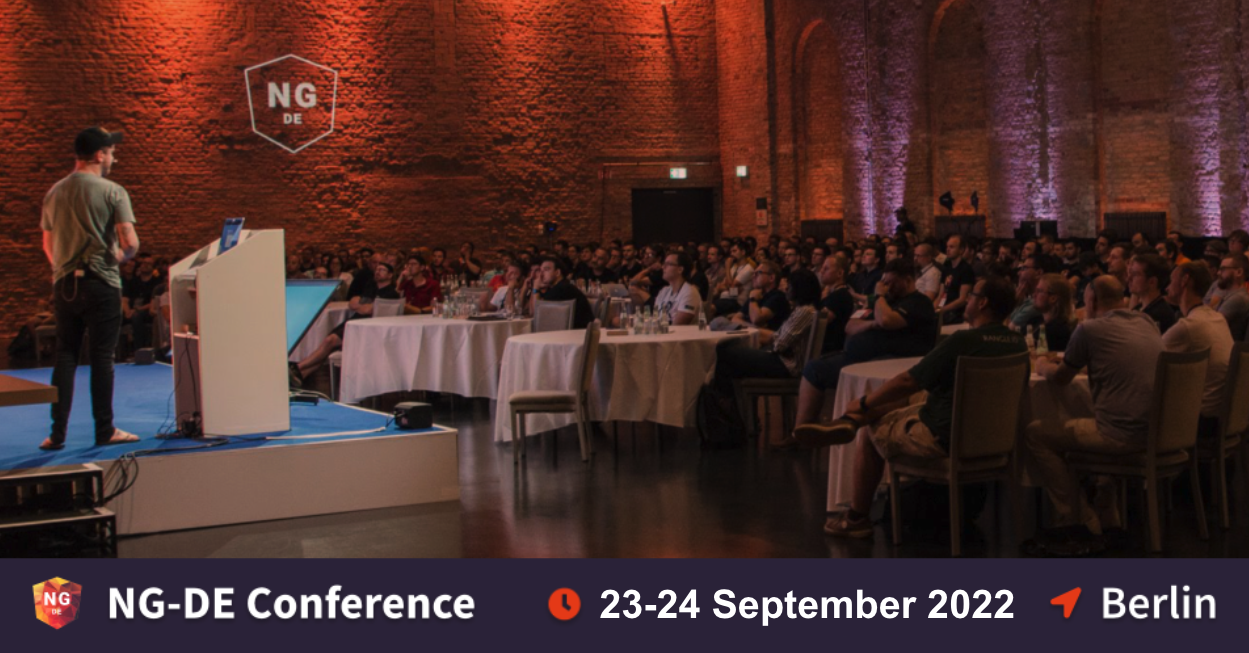
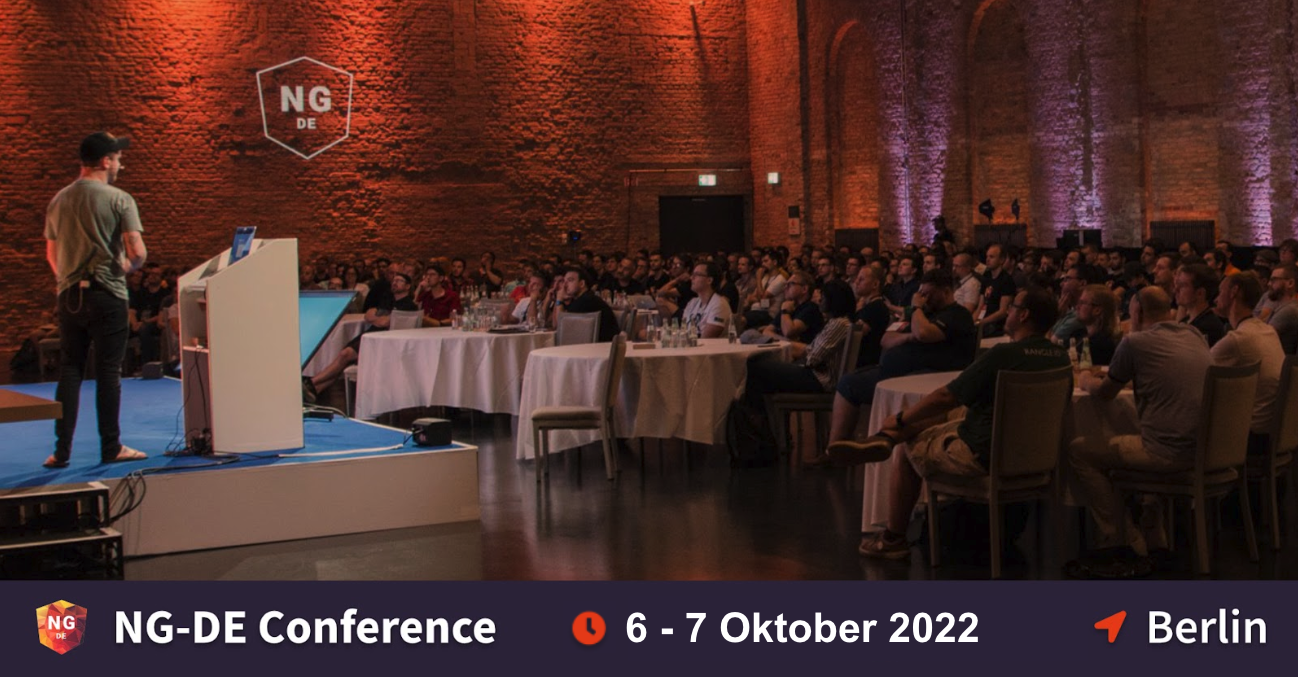
change dates

diff --git a/index.html b/index.html
@@ -3,7 +3,7 @@ permalink: /
 layout: section
 hide_topbar_logo: false
 show_header: true
-description: NG-DE is the first community-driven Angular conference in Germany. It will take place in Berlin, 23rd to 24th September 2022.
+description: NG-DE is the first community-driven Angular conference in Germany. It will take place in Berlin, 6th to 7th October 2022.
 ---
 
 <div class="lead">
@@ -68,7 +68,7 @@ description: NG-DE is the first community-driven Angular conference in Germany. 
   <h3 class="lead__headline">For the community, by the community</h3>
   <p class="lead__content">
     NG-DE is the first community-driven Angular conference in Germany. It will
-    take place in Berlin, September 2022. The venue BOLLE FESTSÄLE is located
+    take place in Berlin, October 2022. The venue BOLLE FESTSÄLE is located
     next to the beautiful Spree river, close to Bellevue palace and Tiergarten.
     A bunch of one-day workshops are planned which can be booked separately from
     the main event.

diff --git a/_includes/topbar.html b/_includes/topbar.html
@@ -7,7 +7,7 @@
   </div>
   <div class="topbar__info">
     <address class="topbar__address">Bolle Festsäle, Berlin</address>
-    <time class="topbar__time">September, 2022</time>
+    <time class="topbar__time">October, 2022</time>
   </div class="topbar__address">
   {% endunless %}
   <div class="topbar__toggle" aria-hidden="true">

diff --git a/_includes/header.html b/_includes/header.html
@@ -6,7 +6,7 @@
     <h1 class="header__title">Angular Conference</h1>
     <h2 class="header__description">
       <address>Bolle Festsäle, Berlin</address>
-      <time>23rd to 24th September 2022</time>
+      <time>6th to 7th October 2022</time>
     </h2>
 
     <div class="header__buttons">

diff --git a/call-for-papers/index.md b/call-for-papers/index.md
@@ -11,7 +11,7 @@ description: >
 ## Call for Papers
 Our call for paper is now closed. We will start the selection process soon and announce the schedule here and on <a target="_blank" href="{{ site.data.socialmedia.twitter.url }}">twitter</a>.
 
-<!-- The CFP for NG-DE/ dotvue Conference September 22 - 24, 2022 at BOLLE FESTSÄLE in Berlin is now open.
+<!-- The CFP for NG-DE/ dotvue Conference October 6 - 7, 2022 at BOLLE FESTSÄLE in Berlin is now open.
 The CFP will close on {{ page.cfp_end }}
 <div class="cfp">
   <div class="cfp__cta">
@@ -57,7 +57,7 @@ For the selection of talks we will follow the jsconf.eu process. That means:
 - The conference ticket is included for the conference days.
 - We will add your talk, bio and Twitter handle on the website and promote you via our social media accounts before, during and after the conference.
 - Your talk will be recorded and published on our YouTube channel after the conference.
-- There will be a guided walking tour through Berlin on Sunday 25th September, please book your travel according to it if you like to join :)
+- There will be a guided walking tour through Berlin on Saturday 8th October, please book your travel according to it if you like to join :)
 
 ### The Jury
 

diff --git a/_posts/2021-01-12-ng-de-coorperates-with-vuejsde-conf/2021-01-12-ng-de-coorperates-with-vuejsde-conf.md b/_posts/2021-01-12-ng-de-coorperates-with-vuejsde-conf/2021-01-12-ng-de-coorperates-with-vuejsde-conf.md
@@ -6,7 +6,7 @@ categories: general
 description: "We bring you one more conference day on top of the NG-DE conference days In cooperation with VueJS.de Conf!"
 ---
 
-we are happy to announce that we are back, busy planning the next NG-DE Conference for you in September 2022!
+we are happy to announce that we are back, busy planning the next NG-DE Conference for you in October 2022!
 And we have even more news for you: We bring you one more conference day on top of the
 NG-DE conference days In cooperation with VueJS.DE! The additional day is a new conference called vuesjs.de and will be also for the community, by the community!
 
